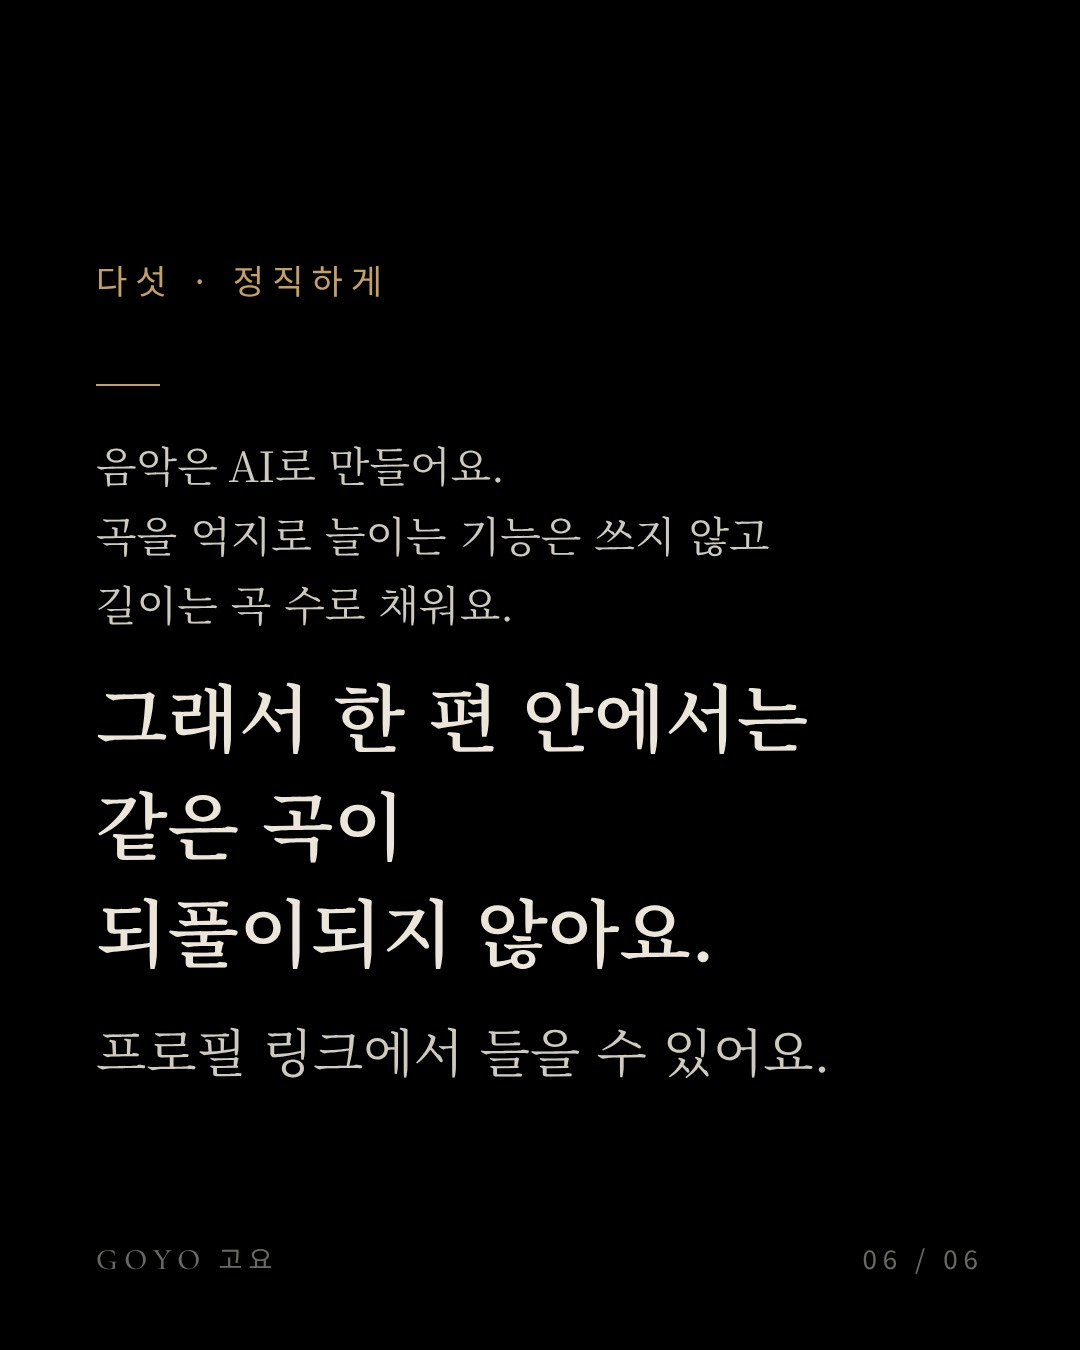
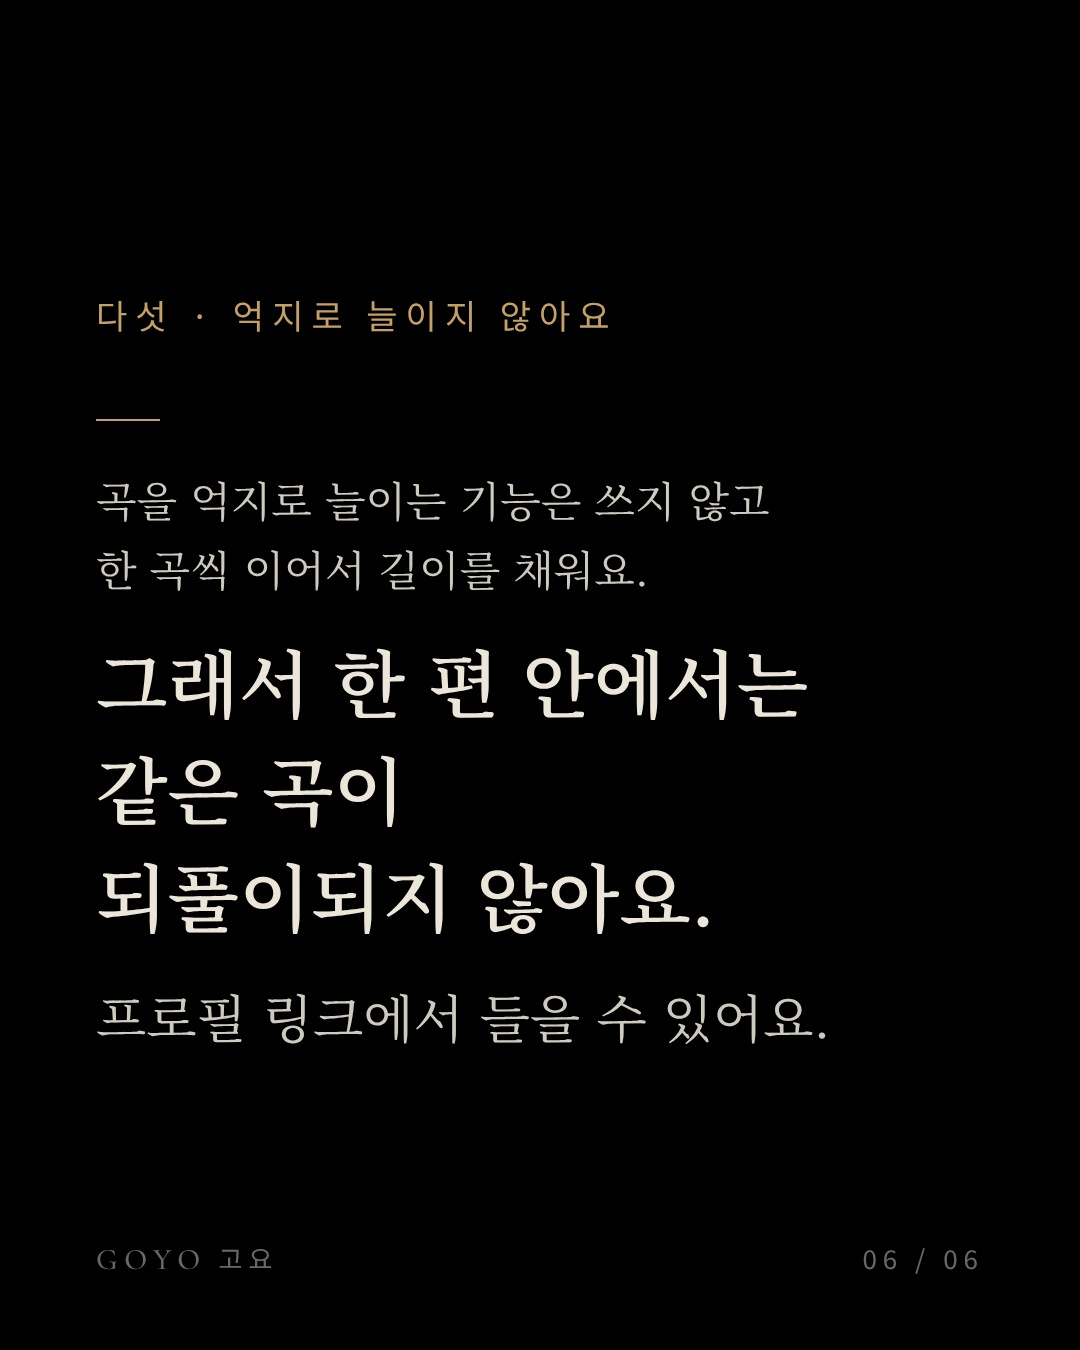
11/18 저녁 게시물 6번 슬라이드에서 AI 문장 뺌
Claude-Session: https://claude.ai/code/session_01YKKUv8b4FfTb62jqwSpAgP

diff --git a/tools/week_src/week2.py b/tools/week_src/week2.py
@@ -25,8 +25,8 @@ make=[
  ('<div class="step">넷 · 한 번에 두 곡이 나오면</div><div class="rule"></div>'
   '<h2>하나만 써요.</h2><br>'
   f'<p {P}>비슷한 곡이 겹치지 않게<br>한 곡씩 직접 듣고 고르고,<br>버린 곡과 실패도 모두 기록해요.<br>기준은 "좋은 곡인가"보다<br>"다른 곡들과 어울리는가"예요.</p>',""),
- ('<div class="step">다섯 · 정직하게</div><div class="rule"></div>'
-  f'<p {P}>음악은 AI로 만들어요.<br>곡을 억지로 늘이는 기능은 쓰지 않고<br>길이는 곡 수로 채워요.</p><br>'
+ ('<div class="step">다섯 · 억지로 늘이지 않아요</div><div class="rule"></div>'
+  f'<p {P}>곡을 억지로 늘이는 기능은 쓰지 않고<br>한 곡씩 이어서 길이를 채워요.</p><br>'
   '<h2>그래서 한 편 안에서는<br>같은 곡이<br>되풀이되지 않아요.</h2><br>'
   '<p>프로필 링크에서 들을 수 있어요.</p>',""),
 ]
